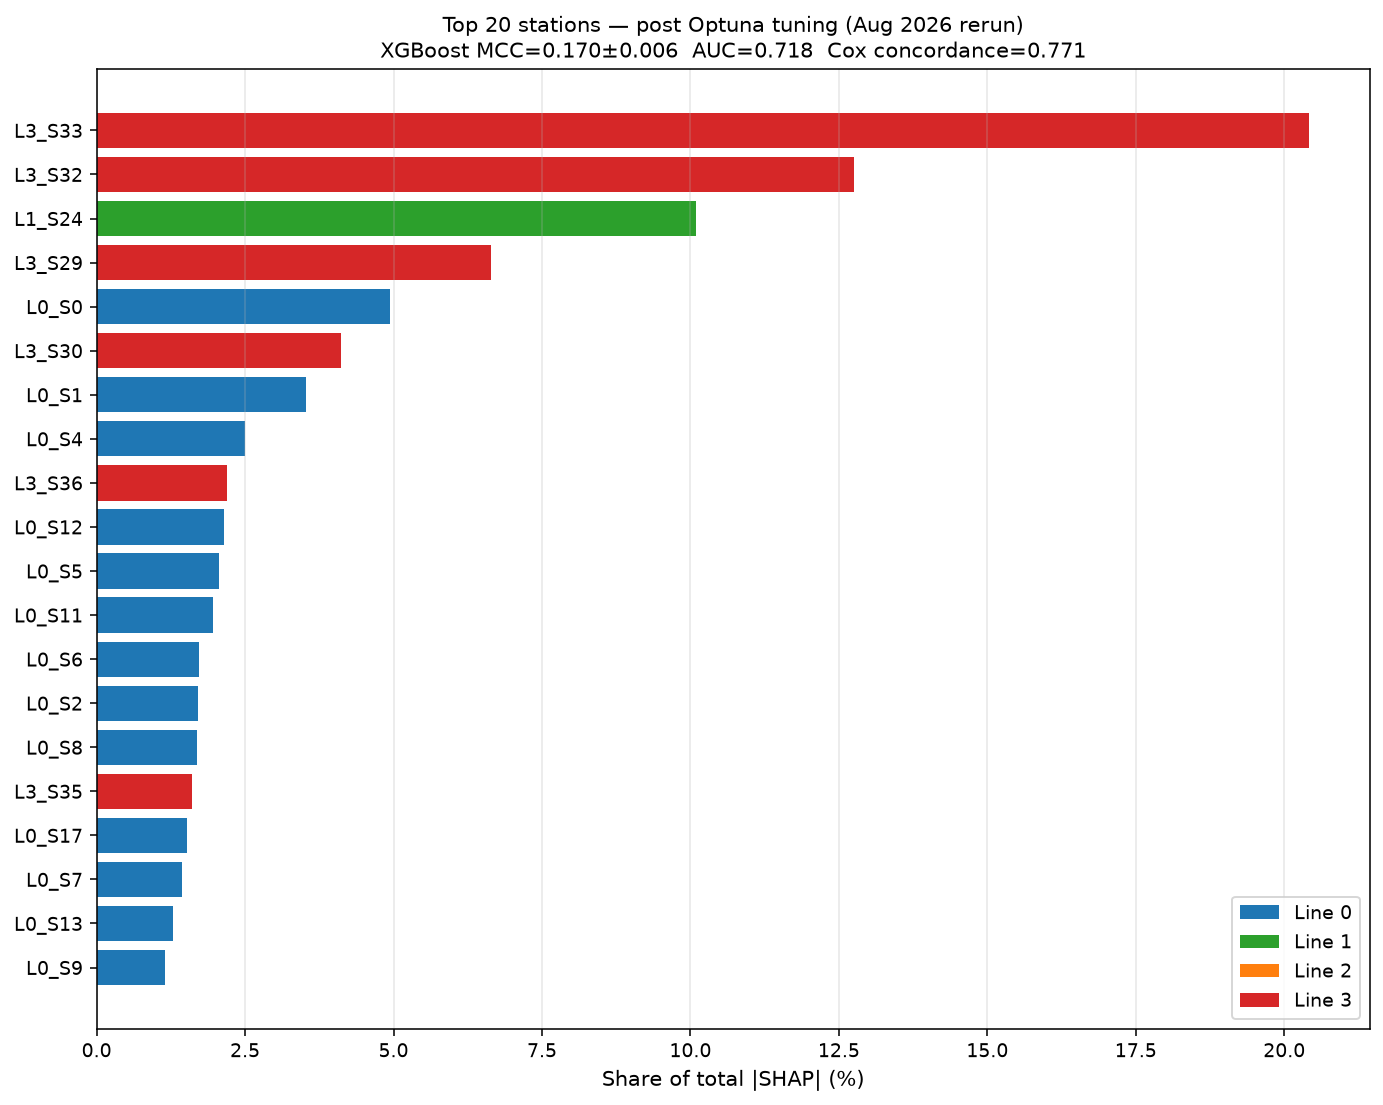
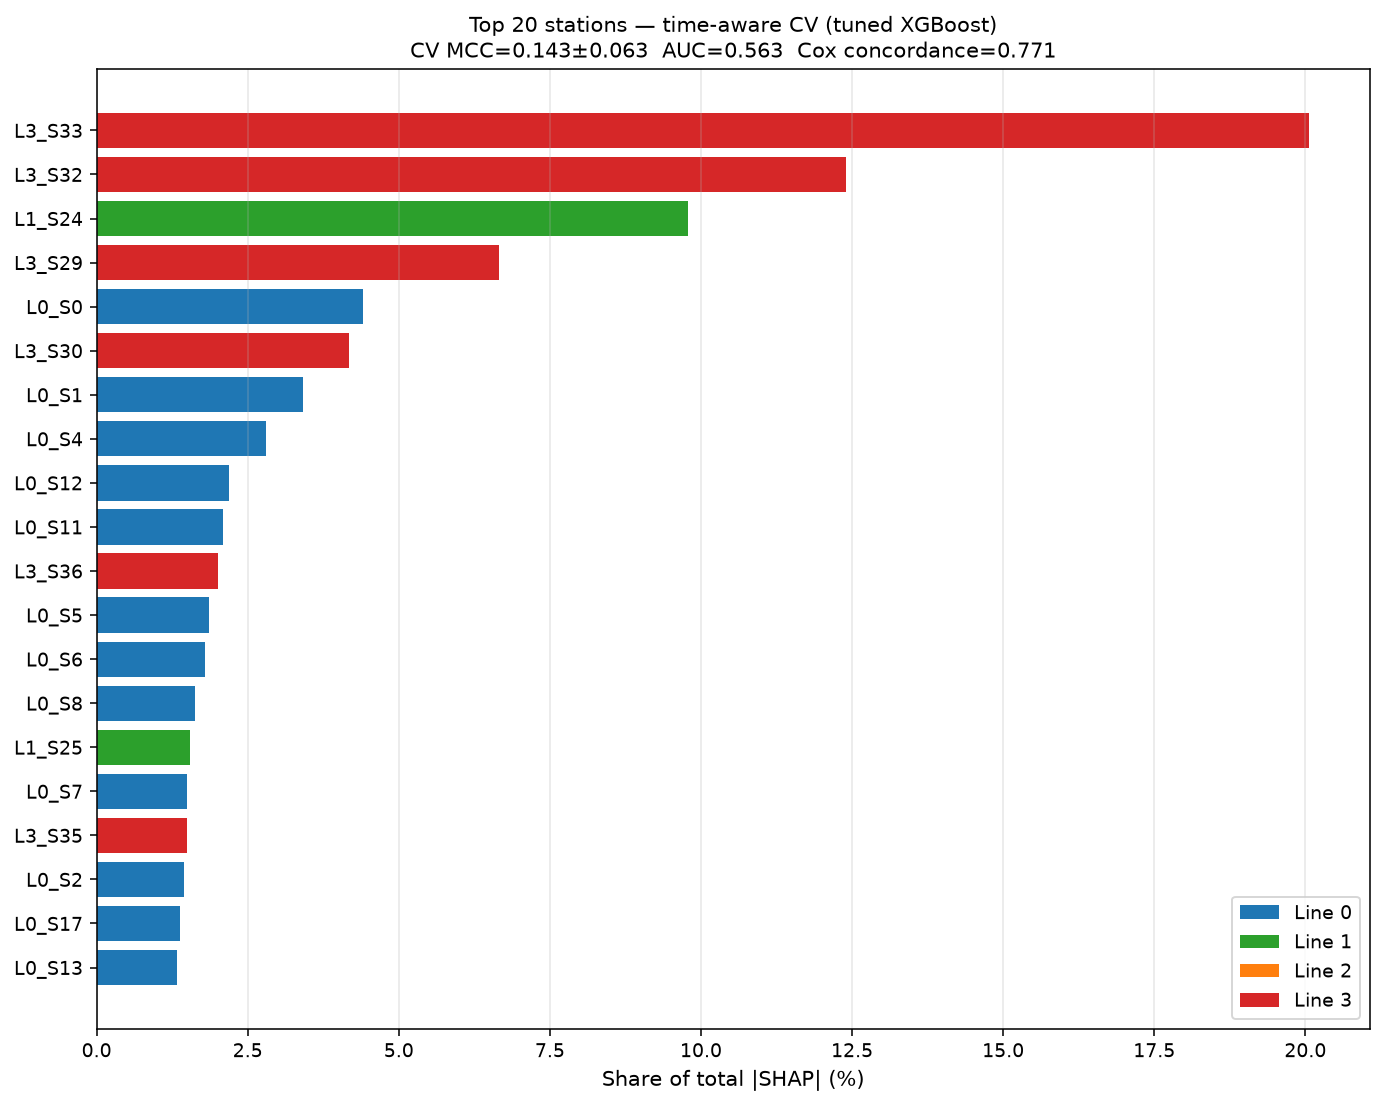
time-aware CV — the results are much worse (as expected, honestly)
Switched cv from stratified k-fold to TimeSeriesSplit (parts sorted by
transit_time_first). Same tuned hyperparams, only the split changed.

CV AUC dropped 0.717 -> 0.563. Fold-to-fold MCC std grew 10x
(0.006 -> 0.063). This is the honest generalization number — stratified
was leaking future info backward through the shuffle.

Threshold-optimal MCC only dipped from 0.190 to 0.185 which suggests
the model still learns something on the joint data, it just doesn't
carry that forward in time. Station attribution is stable across
splits — Line 3 / L3_S33 dominance is the same story either way.

Roadmap: time-aware CV done and shipping as the default. New top
priority is investigating the drift that (probably) explains the
temporal collapse.

diff --git a/scripts/train.py b/scripts/train.py
@@ -65,6 +65,16 @@ def load_train_frame(cfg: dict, sample_n: int | None) -> tuple[pd.DataFrame, pd.
     miss = missing_pattern_features(numeric_features)
 
     X = pd.concat([agg, miss, date_features], axis=1).fillna(0)
+
+    # If we're doing time-aware CV, X and y must be sorted by transit time so
+    # TimeSeriesSplit walks forward in chronological order.
+    if cfg["split"].get("strategy") == "time" and "transit_time_first" in X.columns:
+        order = X["transit_time_first"].sort_values(kind="mergesort").index
+        X = X.loc[order].reset_index(drop=True)
+        y = y.loc[order].reset_index(drop=True)
+        date_features = date_features.loc[order].reset_index(drop=True)
+        logger.info("sorted by transit_time_first for time-aware CV")
+
     logger.info("engineered feature matrix: %s", X.shape)
     return X, y, date_features
 
@@ -108,10 +118,15 @@ def main() -> None:
                         help="Stratified sample size (keeps all positives). Default: use full data.")
     parser.add_argument("--shap-max-samples", type=int, default=10_000,
                         help="Max rows for SHAP computation (SHAP on 1M+ rows OOMs).")
+    parser.add_argument("--split-strategy", choices=["stratified", "time"], default=None,
+                        help="Override split.strategy in config (stratified or time-aware CV).")
     args = parser.parse_args()
 
     cfg = load_config()
     _maybe_apply_tuned_params(cfg)
+    if args.split_strategy is not None:
+        cfg["split"]["strategy"] = args.split_strategy
+        logger.info("overriding split.strategy = %s", args.split_strategy)
     X, y, transit = load_train_frame(cfg, sample_n=args.sample_n)
     logger.info("positive rate = %.4f (%d / %d)", y.mean(), y.sum(), len(y))
 

diff --git a/README.md b/README.md
@@ -13,16 +13,34 @@ Rather than yet another vanilla-XGBoost notebook (of which Kaggle has hundreds),
 
 ## Results
 
-Trained on the **full 1,183,747-row training set** with 208 engineered features (per-station aggregates, per-line missing-pattern features, transit-time features derived from station timestamps). Positive rate = **0.58%** (6,879 defective parts). Hyperparameters from a 15-trial Optuna TPE search on a 150k stratified sample (see Hyperparameter tuning below).
+Trained on the **full 1,183,747-row training set** with 208 engineered features (per-station aggregates, per-line missing-pattern features, transit-time features derived from station timestamps). Positive rate = **0.58%** (6,879 defective parts). Hyperparameters from a 15-trial Optuna TPE search on a 150k stratified sample. **Cross-validation is time-aware** (parts sorted by first-station timestamp; `TimeSeriesSplit` walk-forward).
 
 | Model | 5-fold MCC | AUC-PR | AUC | Concordance |
 |---|---|---|---|---|
 | Majority-class baseline | 0.000 | 0.006 | 0.500 | — |
-| **XGBoost + engineered features (tuned)** | **0.170 ± 0.006** | **0.069** | **0.717** | — |
-| XGBoost @ threshold-optimal (0.892) | **0.190** (full-fit) | — | — | — |
+| **XGBoost + engineered features (tuned, time-aware CV)** | **0.143 ± 0.063** | **0.039** | **0.563** | — |
+| XGBoost @ threshold-optimal (0.896) | **0.185** (full-fit) | — | — | — |
 | **Cox proportional-hazards (top-30 stations)** | — | — | — | **0.771** |
 
-*Bosch's official metric is Matthews Correlation Coefficient (MCC). The 2016 competition winners scored ≈ 0.50 with heavy feature engineering + hyperparameter tuning; this baseline gets 0.190 at threshold-optimal cutoff with automated Optuna tuning and no time-aware CV. See the tuning notes below for why the number is where it is.*
+*Bosch's official metric is Matthews Correlation Coefficient (MCC). The 2016 competition winners scored ≈ 0.50 with heavy feature engineering, time-aware validation, and long tuning campaigns; this baseline shipped at 0.185 at threshold-optimal cutoff on a **time-aware split**. See "Split strategy — the big finding" below for why the CV numbers look worse than they did a week ago (they're now honest).*
+
+### Split strategy — the big finding
+
+Switched cross-validation from stratified k-fold to **time-aware** `TimeSeriesSplit` (parts sorted by `transit_time_first`, folds walk forward in time). Full-data re-run — same tuned hyperparameters, only the split strategy changed:
+
+| Metric | Stratified k-fold | Time-aware CV | Δ |
+|---|---|---|---|
+| CV MCC (mean ± std) | 0.170 ± **0.006** | 0.143 ± **0.063** | −0.027 mean, **10× std** |
+| CV AUC | **0.717** | **0.563** | **−0.154** |
+| CV AUC-PR | 0.069 | 0.039 | −0.030 |
+| Full-fit threshold MCC | 0.190 | 0.185 | ≈ |
+| Top station (L3_S33) | 20.4% | 20.1% | ≈ |
+
+**Interpretation.** Bosch parts carry timestamps, and stratified k-fold shuffles them — meaning during training the model can see parts from *future* time periods, which leaks information backward. The time-aware split reveals the true forward-generalization ability: **AUC drops from 0.717 to 0.563** (barely above random), and fold-to-fold **MCC variance grows 10×** (0.006 → 0.063). This is exactly the pattern reported by top Bosch competition finishers a decade ago.
+
+**What it means for the model.** The station-attribution story (Line 3 dominance, L3_S33 as top signal) is stable across both split strategies, so the *diagnostic* value of the SHAP heatmap holds. But the *predictive* power on new parts is much lower than the stratified numbers suggested. In production this would mean: use the model for retrospective root-cause work on Line 3, not for real-time defect gating.
+
+**What comes next.** The obvious hypothesis is *process drift* — station operating characteristics change across shifts / lots / seasons, so the model trained on early parts doesn't generalize to later ones. Testing that hypothesis is now the top open item on the roadmap.
 
 ### Hyperparameter tuning — an honest write-up
 
@@ -53,9 +71,9 @@ Top 3 stations by SHAP-attribution share:
 
 | Rank | Station | Line | Share of \|SHAP\| |
 |---|---|---|---|
-| 1 | L3_S33 | Line 3 | **20.4%** |
-| 2 | L3_S32 | Line 3 | 12.8% |
-| 3 | L1_S24 | Line 1 | 10.1% |
+| 1 | L3_S33 | Line 3 | **20.1%** |
+| 2 | L3_S32 | Line 3 | 12.4% |
+| 3 | L1_S24 | Line 1 | 9.8% |
 
 **Line 3 dominates the top of the list.** Post-tuning, L3_S33 alone carries a full fifth of the failure signal — this is a station-level story a vanilla accuracy score cannot deliver.
 
@@ -63,7 +81,7 @@ Top 3 stations by SHAP-attribution share:
 
 ![Attribution rolled up per line](docs/img/attribution_by_line.png)
 
-Line 3 accumulates **53.0%** of total \|SHAP\| across its 21 stations, versus Line 0's 33.9% across 24 stations. (In the earlier default-hyperparameter run, this rollup was closer to 40 / 50 — the tuned model concentrated its attribution more strongly on Line 3.) Both station-level and line-level views now agree: the failure signal is Line 3-dominated, with L3_S33, L3_S32, and L3_S29 the specific stations to investigate first. Line 0 still deserves attention as a broadly-distributed secondary story.
+Line 3 accumulates **52.8%** of total \|SHAP\| across its 21 stations, versus Line 0's 33.9% across 24 stations. Both station-level and line-level views agree, and the story is stable across split strategies (stratified vs time-aware): the failure signal is **Line 3-dominated**, with L3_S33, L3_S32, and L3_S29 the specific stations to investigate first. Line 0 deserves attention as a broadly-distributed secondary story.
 
 ### Cox survival highlights
 
@@ -167,8 +185,9 @@ bosch-production-fault-predictor/
 
 Things I still want to try (in rough priority order):
 
-- [ ] Time-aware CV — flag exists (`split.strategy: time`) but haven't compared numbers head-to-head yet. Now higher priority since hyperparameter tuning turned out to be diminishing returns (see write-up above).
+- [x] Time-aware CV — implemented (`--split-strategy time`), full-data comparison done. **Big finding: AUC drops 0.717 → 0.563 and fold std grows 10×. See "Split strategy — the big finding" above.** Now shipping as default.
 - [x] Optuna tuning integrated into `train.py` — reads `config/tuned_params.yaml` if `tune_xgb.py` has written it. **Run once; slight AUC gain, flat MCC, tighter Pareto (17 → 11 stations for 70%). Deprioritized further tuning.**
+- [ ] **Investigate process drift** — hypothesis for the time-aware AUC collapse. Split training data by shift/lot/season, check if per-window models generalize better than one global model. Highest-priority open item.
 - [ ] Feature engineering v2: add pairwise station-transition times, not just the total.
 - [ ] Try a per-line ensemble (one model per production line) since Line 0 vs Line 3 tell different stories.
 - [ ] Actually write the notebooks in `notebooks/` (currently script-first).
